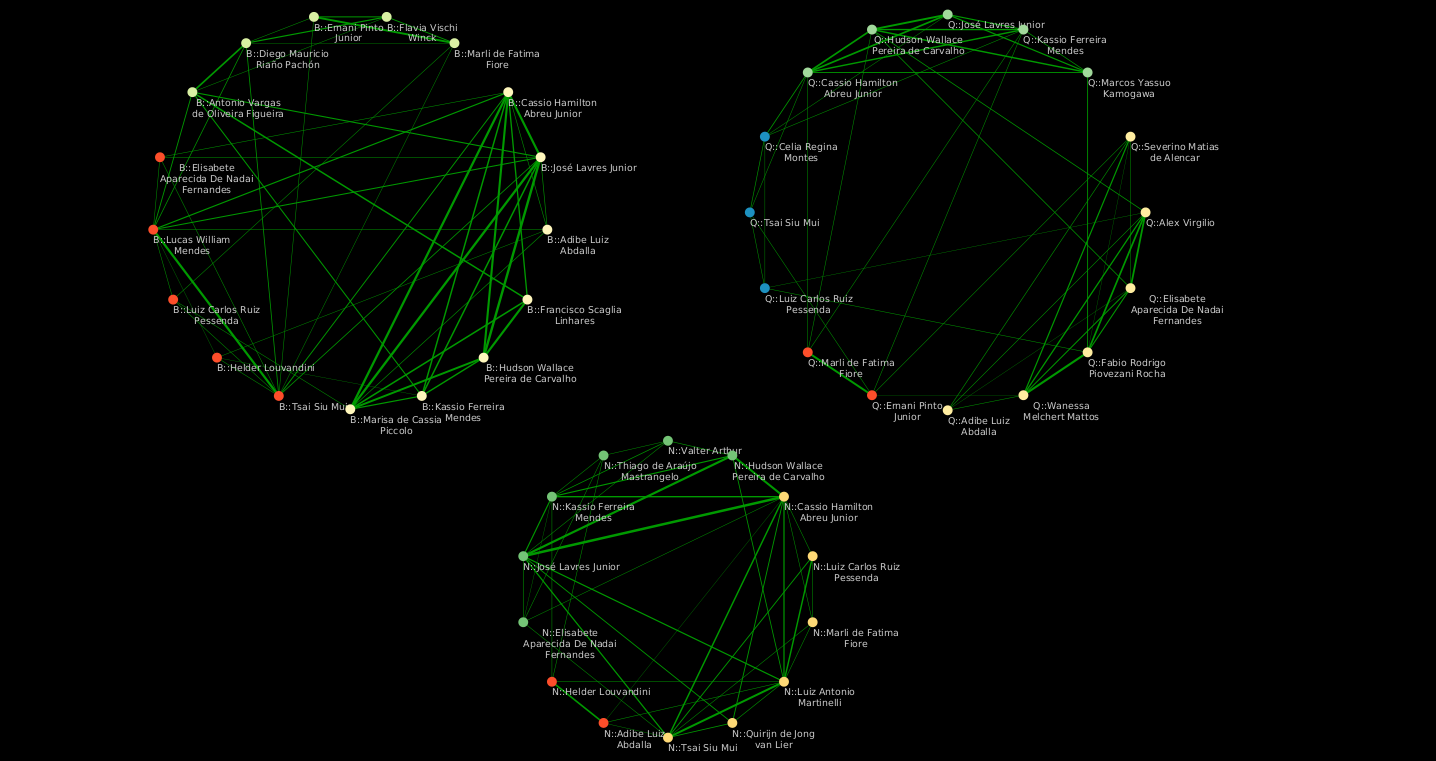
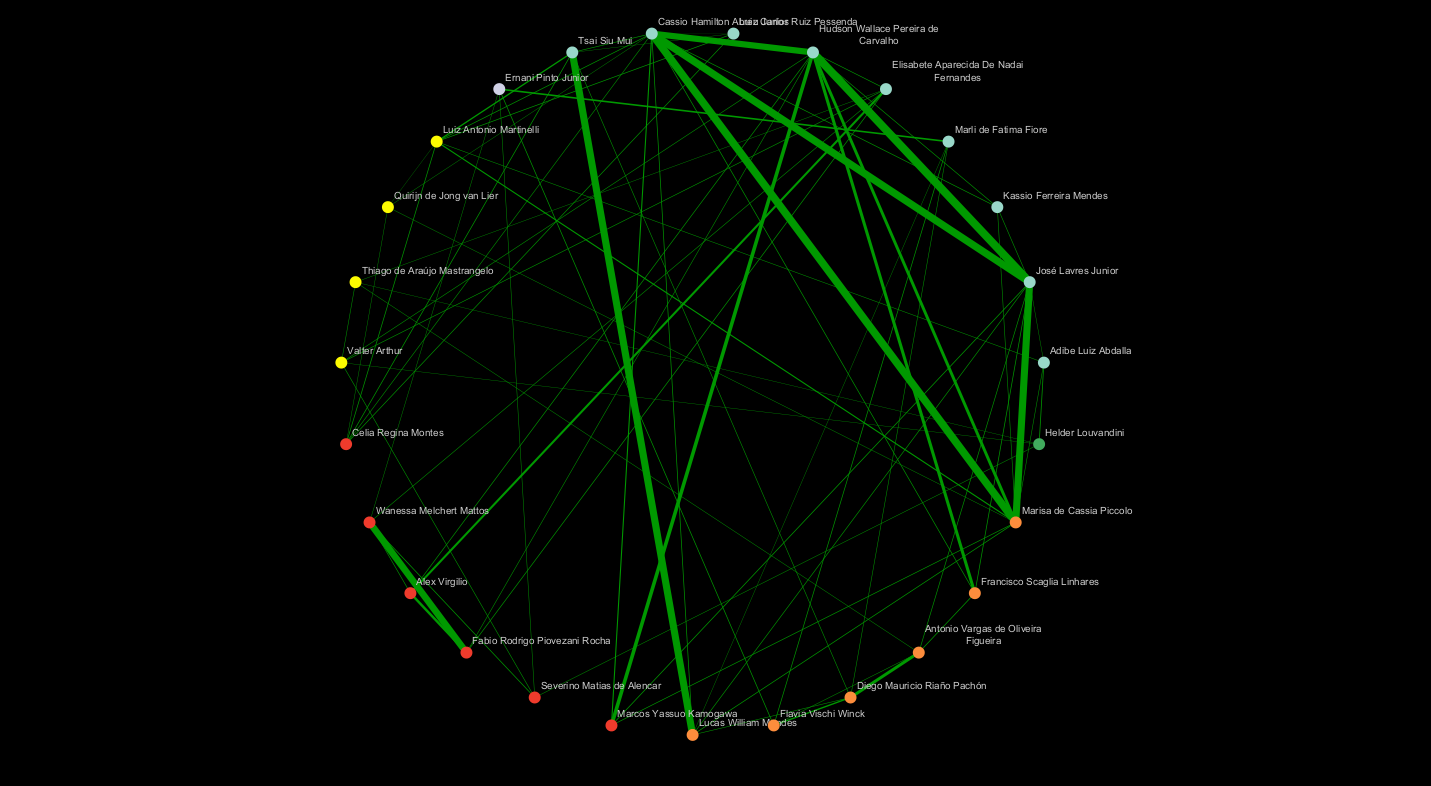
updating results fo new model BAAI/bge-large-en-v1.5

diff --git a/README.md b/README.md
@@ -49,7 +49,7 @@ No Cytoscape, os nós foram coloridos de acordo com a combinação de áreas reg
 | Área ou combinação | Cor usada | Código hexadecimal |
 | --- | --- | ---: |
 | Biologia (B) | Laranja | #FD8D3C |
-| Nuclear (N) | Rosa | #FDE0DD | 
+| Nuclear (N) | Amarelo | #FDFB00 | 
 | Química (Q) | Vermelho | #EF3B2C | 
 | B + N | Verde | #41AB5D | 
 | B + Q | Lilás | #D0D1E6 | 
@@ -119,11 +119,12 @@ Os nós representam os orientadores selecionados em `candidates.json`. Uma arest
 | Adibe Luiz Abdalla | Helder Louvandini | 0.931205 | 31 |
 | José Lavres Junior | Marcos Yassuo Kamogawa | 0.927685 | 0 |
 
+![Rede de similaridade semântica global PPG-Ciencias CENA/USP](Figs/semantic_similarity.png)
+**Figura 2. Rede semântica global.**
+
 ### Rede de similaridade semântica por área de concentração
 
 As saídas em `data/` incluem [area_semantic.graphml](data/area_semantic.graphml) (que pode ser visualizado em Cytoscape) e os arquivos [area_semantic_B.graphml](data/area_semantic_B.graphml), [area_semantic_N.graphml](data/area_semantic_N.graphml) e [area_semantic_Q.graphml](data/area_semantic_Q.graphml); [area_semantic_nodes.csv](data/area_semantic_nodes.csv) e [area_semantic_edges.csv](data/area_semantic_edges.csv) descrevem seus nós e arestas. [area_semantic_matrix_B.csv](data/area_semantic_matrix_B.csv), [area_semantic_matrix_N.csv](data/area_semantic_matrix_N.csv) e [area_semantic_matrix_Q.csv](data/area_semantic_matrix_Q.csv) preservam os pares comparáveis que não aparecem nas redes. [area_semantic_coverage.csv](data/area_semantic_coverage.csv) mostra quantos artigos de cada orientador foram aproveitados em cada área. Os vetores dos artigos ficam em cache em [area_semantic_embeddings.npz](data/area_semantic_embeddings.npz), de modo que uma nova execução após a curadoria no arquivo ([work_area_curated.csv](data/work_area_curated.csv)) pode reutilizá-los.
-
-Para atribuir os artigos as áreas, o script calcula a similaridade de cada artigo com protótipos de B, N e Q. A classificação provisória é registrada em [work_area_suggestions.csv](data/work_area_suggestions.csv). O arquivo [work_area_curated.csv](data/work_area_curated.csv) permite corrigir manualmente a área de cada artigo. O script lê esse arquivo e gera as redes por área.
 
 | Área | Orientadores de referência | Artigos de referência | Artigos atribuídos |
 | --- | ---: | ---: | ---: |
@@ -134,8 +135,8 @@ Para atribuir os artigos as áreas, o script calcula a similaridade de cada arti
 Para discutir novas linhas de pesquisa, a rede global pode indicar aproximações amplas; as redes por área mostram **quais dessas aproximações persistem** quando os artigos são filtrados. A interpretação final deve considerar cobertura desigual de publicações, qualidade da atribuição dos artigos às áreas, termos e artigos representativos, além das prioridades do programa.
 
 
-![Rede de similaridade semântica por área PPG-Ciencias CENA/USP](Figs/semantic_similarity.png)
-**Figura 2. Redes semânticas por área de concentração.**
+![Rede de similaridade semântica por área PPG-Ciencias CENA/USP](Figs/area_semantic.png)
+**Figura 3. Redes semânticas por área de concentração.**
 A imagem apresenta três conjuntos separados: Biologia (B), à esquerda; Química (Q), na região superior direita; e Energia Nuclear (N), abaixo. Cada nó corresponde à atuação de um orientador naquela área, identificada pelo prefixo B::, N:: ou Q::. Por isso, orientadores vinculados a várias áreas podem aparecer mais de uma vez em diferentes conjuntos. As linhas verdes ligam pares de orientadores dentro da mesma área. A separação entre B, N e Q decorre da construção da rede, que não inclui arestas entre áreas. As posições dos nós também dependem do algoritmo de disposição e não devem ser interpretadas como uma escala numérica de similaridade. As cores dos nós correspondem ás comunidades detectadas pelo algoritmo de Louvain. A espessura das arestas indica a similaridade semantica entre os orientadores, calculada com base em títulos, resumos e palavras-chave dos artigos.
 
 ## Limitações e possibilidades de aprimoramento
@@ -249,6 +250,8 @@ O processamento por área ocorre em etapas:
 4. **Comunidades e temas propostos.** Em cada rede, o algoritmo de [Louvain](https://doi.org/10.1088/1742-5468/2008/10/P10008) identifica comunidades sem impor previamente sua quantidade. Separadamente, um agrupamento hierárquico propõe **três grupos por área** com `--groups 3`, quando há orientadores suficientes. Esse agrupamento combina, por padrão, 75% de similaridade semântica e 25% de proximidade lexical calculada por [TF-IDF](https://en.wikipedia.org/wiki/Tf%E2%80%93idf) sobre os textos da própria área; se não há escore semântico para um par, usa sua proximidade lexical. Os termos distintivos e títulos representativos ajudam a descrever cada grupo, mas são rótulos exploratórios, não nomes apropriados para linhas de pesquisa.
 
 Um orientador vinculado a mais de uma área pode aparecer uma vez em **cada rede na qual tenha artigos classificados suficientes** (`--min-area-papers`, cujo padrão é 1): por exemplo, `B::Nome` e `N::Nome` são nós diferentes no GraphML combinado. As ligações conectam apenas orientadores da mesma área. Assim, é possível examinar se a atuação temática do mesmo orientador difere entre B e N, sem misturar seus artigos das duas áreas no perfil local.
+
+Para atribuir os artigos as áreas, o script calcula a similaridade de cada artigo com protótipos de B, N e Q. A classificação provisória é registrada em [work_area_suggestions.csv](data/work_area_suggestions.csv). O arquivo [work_area_curated.csv](data/work_area_curated.csv) permite corrigir manualmente a área de cada artigo. O script lê esse arquivo e gera as redes por área.
 
 ```bash
 python3 scripts/area_semantic.py ../PPG_Ciencias_Research_Lines/ \
